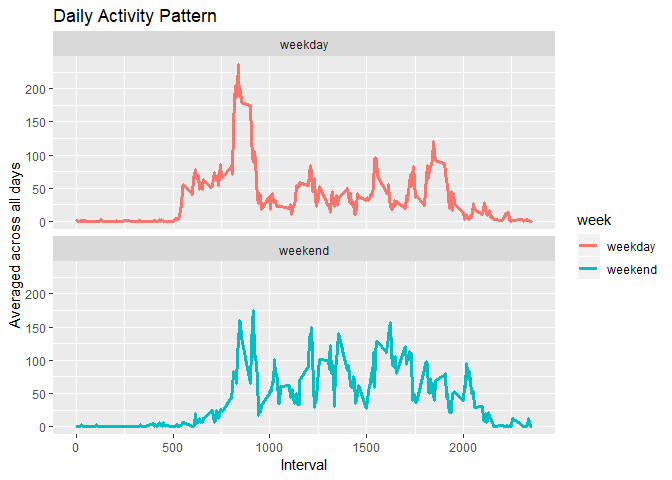
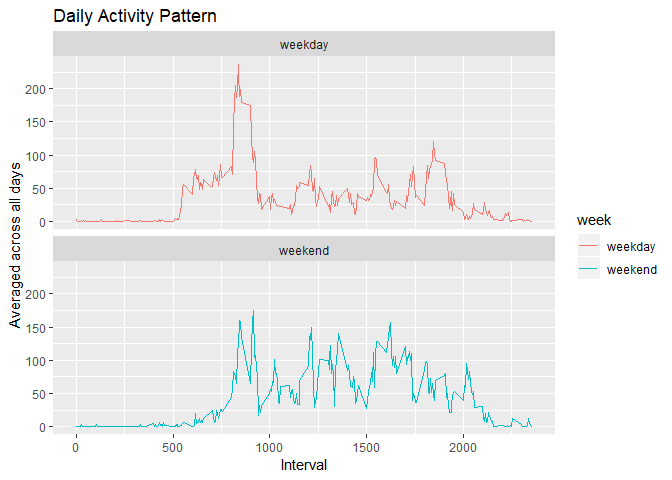
final

diff --git a/PA1_template.md b/PA1_template.md
@@ -67,7 +67,7 @@ interval <- activityL %>%group_by(interval) %>%
   summarise(mean=mean(steps,na.rm = TRUE))
 
 ggplot(interval,aes(interval,mean))+
-  geom_line(size=1.2,color="darkblue")+
+  geom_line(color="darkblue")+
   labs(x="Interval",y="Averaged across all days") +
   ggtitle("Daily Activity Pattern")
 ```
@@ -170,7 +170,7 @@ interval2 <- activityL2 %>%group_by(interval,week) %>%
 
 
 ggplot(interval2,aes(interval,mean,col=week))+
-  geom_line(size=1.2)+
+  geom_line()+
   labs(x="Interval",y="Averaged across all days") +
   ggtitle("Daily Activity Pattern")+
   facet_wrap(~week,nrow = 2)
